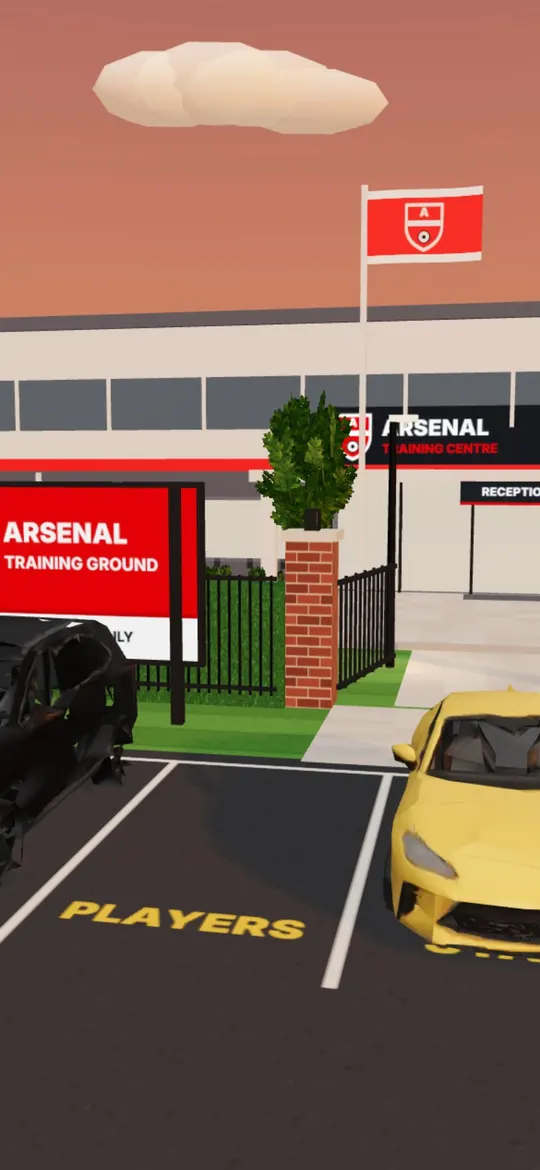
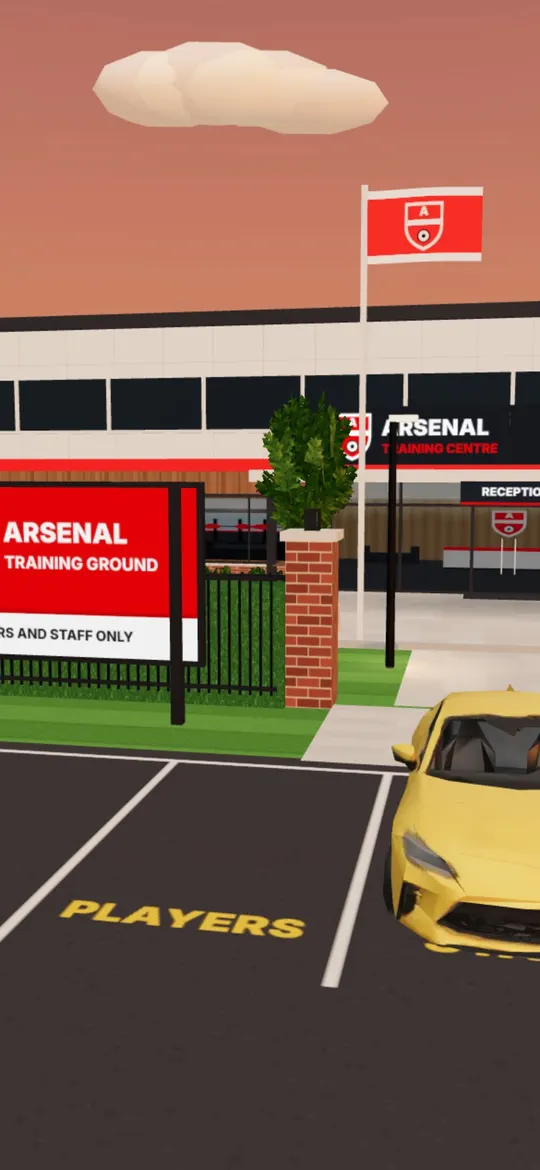
Compound: sliding gates (the camera no longer passes a gate leaf), paving layers lifted (no grass through it), sign in front of the window rail, loading backdrops re-shot
Claude-Session: https://claude.ai/code/session_01EW1dWH4qkzbbKXAp9inyDp

diff --git a/lib/star/world3d/compoundPlace.ts b/lib/star/world3d/compoundPlace.ts
@@ -460,7 +460,7 @@ export function buildCompound(env: CompoundEnv): CompoundOut {
   };
   const flat = (parent: any, m: any, w: number, d: number, x: number, y: number, z: number, ry = 0) => {
     const me = new THREE.Mesh(new THREE.PlaneGeometry(w, d), m);
-    me.rotation.set(-Math.PI / 2, 0, ry); me.position.set(x, y, z); me.receiveShadow = true; me.castShadow = false;
+    me.rotation.set(-Math.PI / 2, 0, ry); me.position.set(x, y === 0 ? 0 : y * 2.5, z); // layers lifted (2.5x): over 400 m of view the grass showed through the paving in steps me.receiveShadow = true; me.castShadow = false;
     parent.add(me);
     return me;
   };
@@ -518,10 +518,11 @@ export function buildCompound(env: CompoundEnv): CompoundOut {
       box(G, M.metal, 0.22, 0.32, 0.22, x, 2.8, fz, { cast: false });
       box(G, M.lit, 0.16, 0.22, 0.16, x, 2.8, fz, { cast: false });
     }
-    // the gate's two black leaves, swung open into the grounds
+    // the gate's two black leaves, slid open behind the railings either side (sliding gates: nothing stands in
+    // the grounds for the following camera to pass through, 28 Nov)
     for (const sx of [-1, 1]) {
       const leaf = new THREE.Group();
-      leaf.position.set(sx * (C.gate.x1 - 0.05), 0, fz - 0.05); leaf.rotation.y = -sx * 1.35;
+      leaf.position.set(sx * (C.gate.x1 + C.gate.pillar + (C.gate.x1 - 0.1) + 0.1), 0, fz - 0.62);
       G.add(leaf);
       const lw = C.gate.x1 - 0.1;
       box(leaf, M.metal, lw, 0.08, 0.06, -sx * lw / 2, 1.85, 0, { cast: false });
@@ -653,7 +654,7 @@ export function buildCompound(env: CompoundEnv): CompoundOut {
     if (!low) flat(Bz, shadeM, 14, 6, 0, 0.011, F + 2.2);
     // the sign over the canopy (lit): the crest and the club's name
     const signM = basic({ map: tex(buildingSign(club, kit.shirt, kit.trim)), toneMapped: false });
-    panel(Bz, signM, 10.4, 1.62, 0, 4.42 + 0.02, F + 0.07);
+    panel(Bz, signM, 10.4, 1.62, 0, 4.42 + 0.02, F + 0.18); // in front of the window rail below the glass
     // the side doors (gym, canteen): a recessed steel frame, two glass leaves onto the lit room, push bars, a canopy
     for (const dr of DOORS) {
       const wide = dr.id === "door-reception";

diff --git a/lib/star/world3d/testScene.ts b/lib/star/world3d/testScene.ts
@@ -239,7 +239,7 @@ async function build(container: HTMLElement, cb: WorldCallbacks, opts: WorldOpti
     compound = c;
     renderer.toneMappingExposure = sky === "night" ? 1.15 : 1.0;
     scene.environmentIntensity = sky === "night" ? 0.15 : 0.35;
-    camera.far = 420; camera.updateProjectionMatrix();
+    camera.far = 420; camera.near = 0.15; camera.updateProjectionMatrix(); // a far view needs a farther near plane (at 0.05 the paving and the grass fought in steps)
     // the parked cars: the game's own car models (the house's drive cars), loaded before the joining
     const { addParkedCars } = await import("./compoundPlace");
     const carLoader = new GLTFLoader();
@@ -1136,7 +1136,7 @@ async function build(container: HTMLElement, cb: WorldCallbacks, opts: WorldOpti
     for (const n of npcs) if (!n.root.visible) n.update(dt, world, false);
     if (place === "gym") for (const n of npcs) if (n.root.visible) mateGymFrame(n, dt);
     // the soft shadow under each person (the compound: not past 22 m from the camera, where it is a few pixels and still a draw)
-    blobs.forEach((b, n) => { const [x, z] = n.bodyXZ(); b.visible = n.root.visible && (!CP || Math.hypot(x - camera.position.x, z - camera.position.z) < 22); b.position.set(x, 0.012, z); });
+    blobs.forEach((b, n) => { const [x, z] = n.bodyXZ(); b.visible = n.root.visible && (!CP || Math.hypot(x - camera.position.x, z - camera.position.z) < 22); b.position.set(x, CP ? 0.045 : 0.012, z); });
     faces.forEach((f, n) => { if (n.root.visible) f.rig.set({ blink: FACE.blinkAt(simT, f.seed) }); });
     for (const h of hairs) h.update?.(dt);
     tvScreen?.tick(dt);

diff --git a/lib/star/world3d/compoundPlan.ts b/lib/star/world3d/compoundPlan.ts
@@ -207,7 +207,7 @@ export function tallSolids(): Solid[] {
   const C = COMPOUND;
   const fz = C.fenceZ, h = C.hut, b = C.building, st = C.stand;
   return [
-    [C.bounds[0], C.gate.x0, fz - 0.5, fz + 0.6], [C.gate.x1, C.bounds[1], fz - 0.5, fz + 0.6],
+    [C.bounds[0], C.gate.x0, fz - 0.8, fz + 0.6], [C.gate.x1, C.bounds[1], fz - 0.8, fz + 0.6], // the gates slide behind the railings
     [h.x0, h.x1, h.z0, h.z1], [b.x0, b.x1, b.z0, b.z1], [st.x0, st.x1, st.z0, st.z1],
   ];
 }
